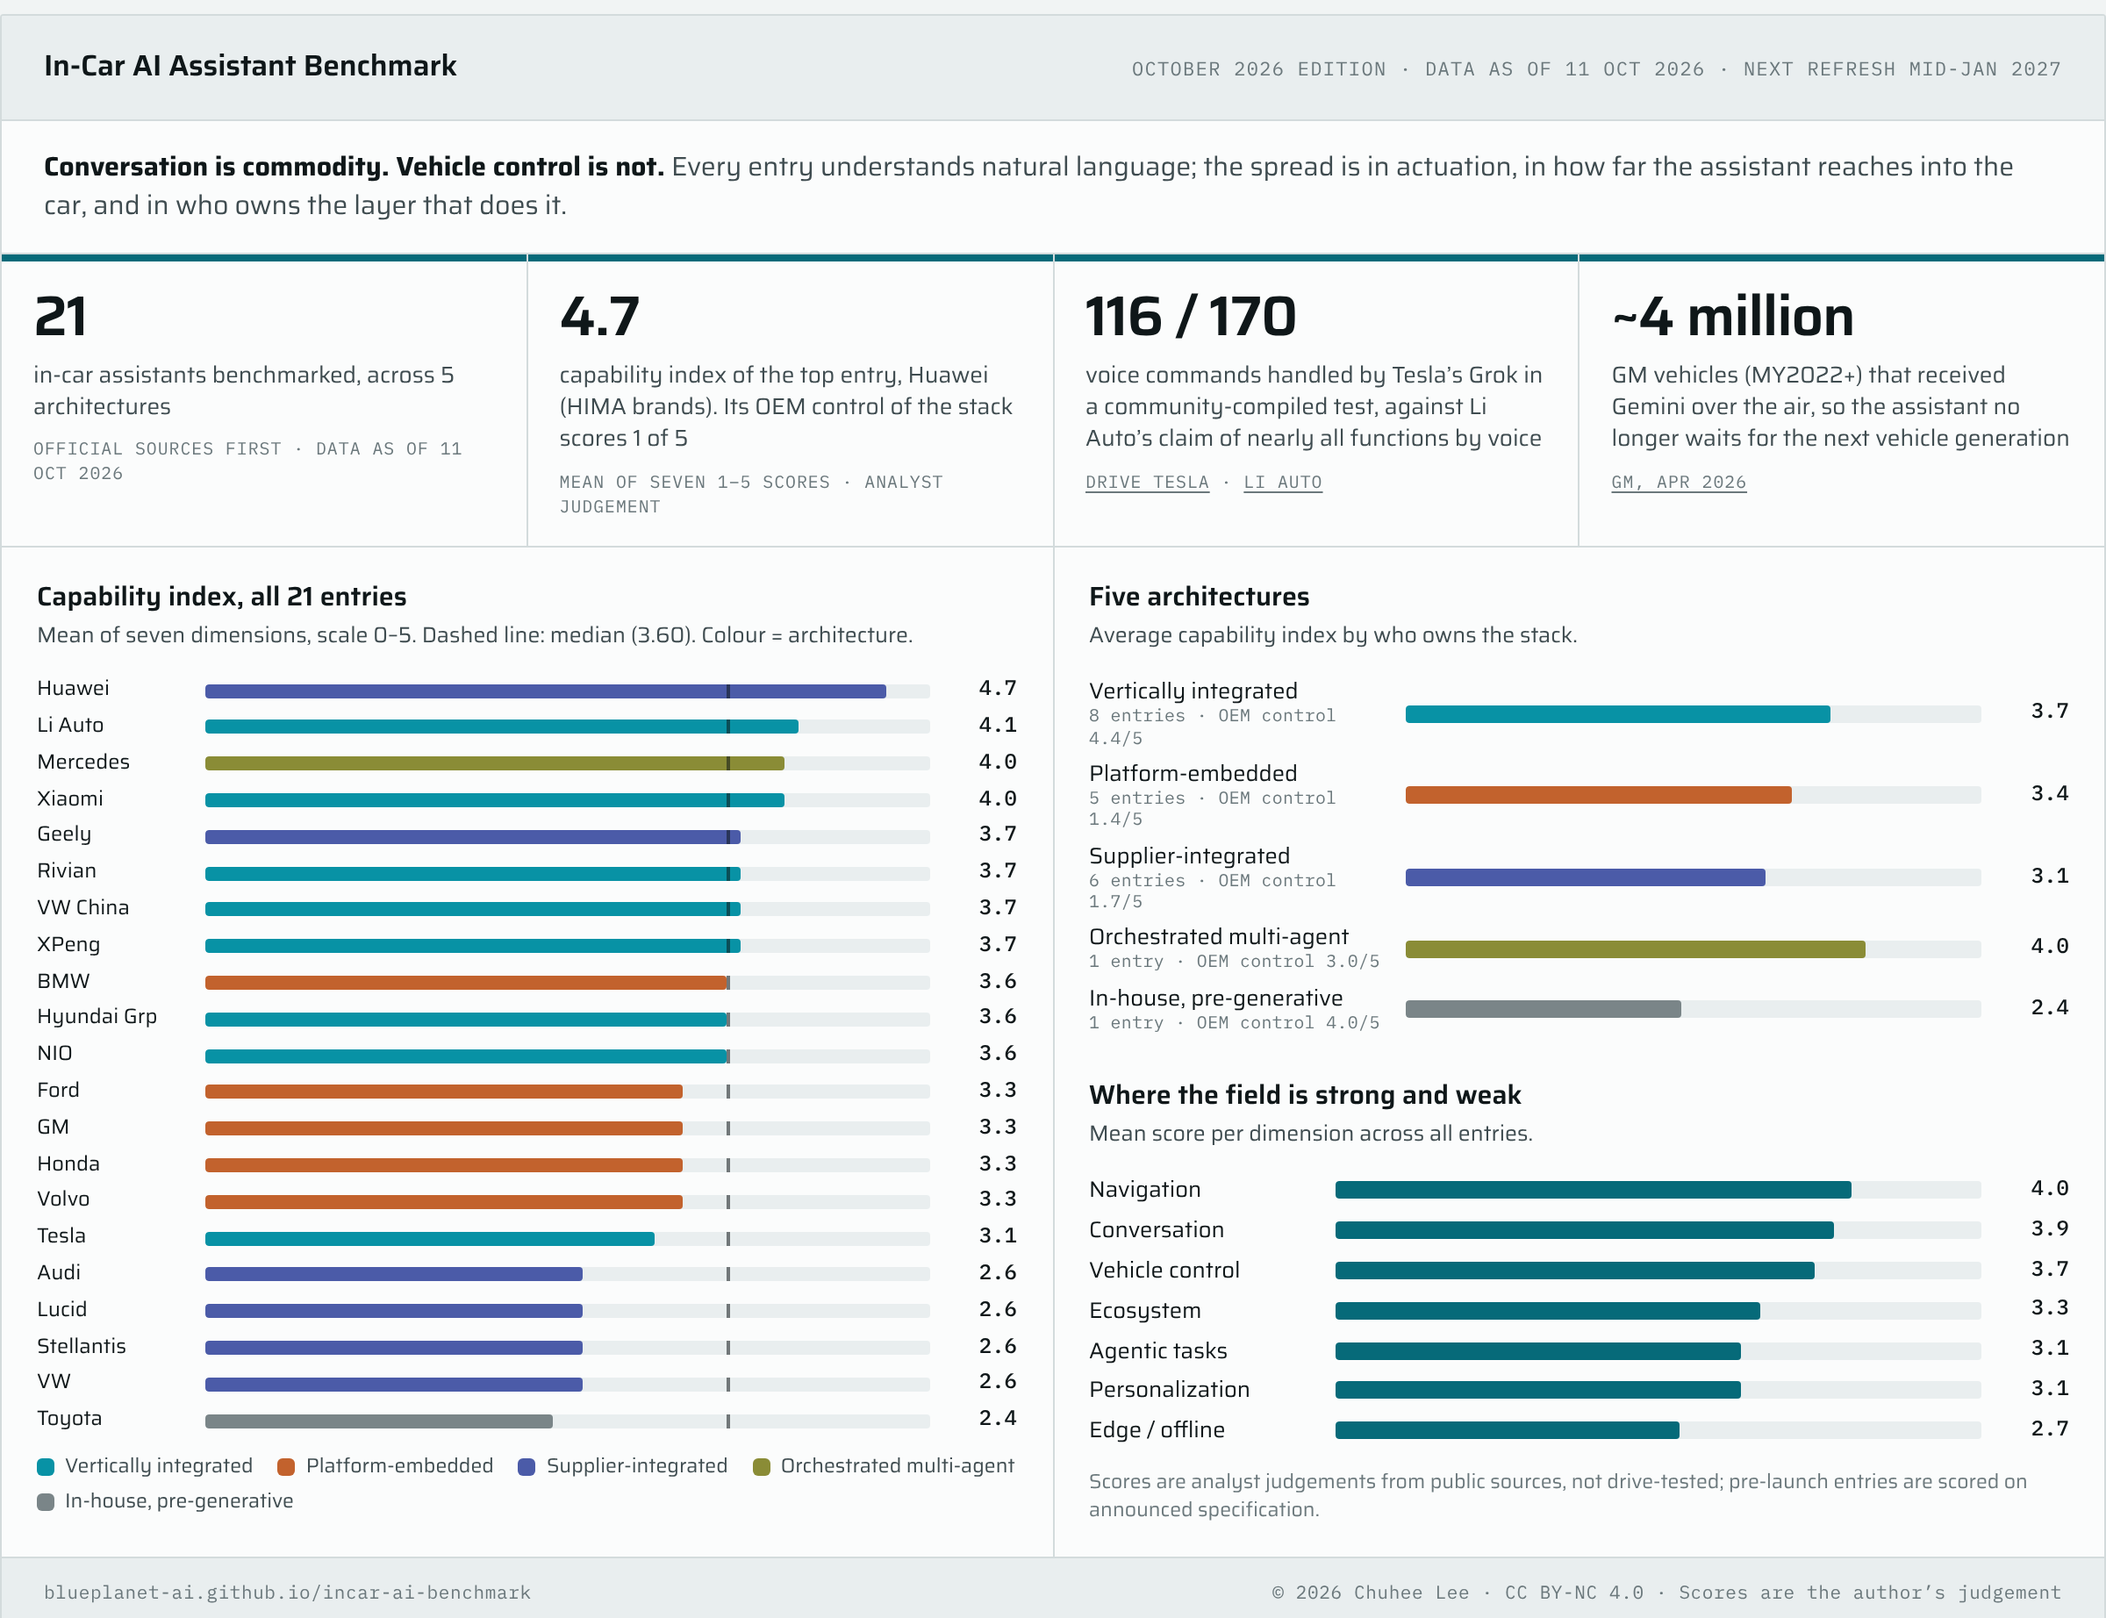
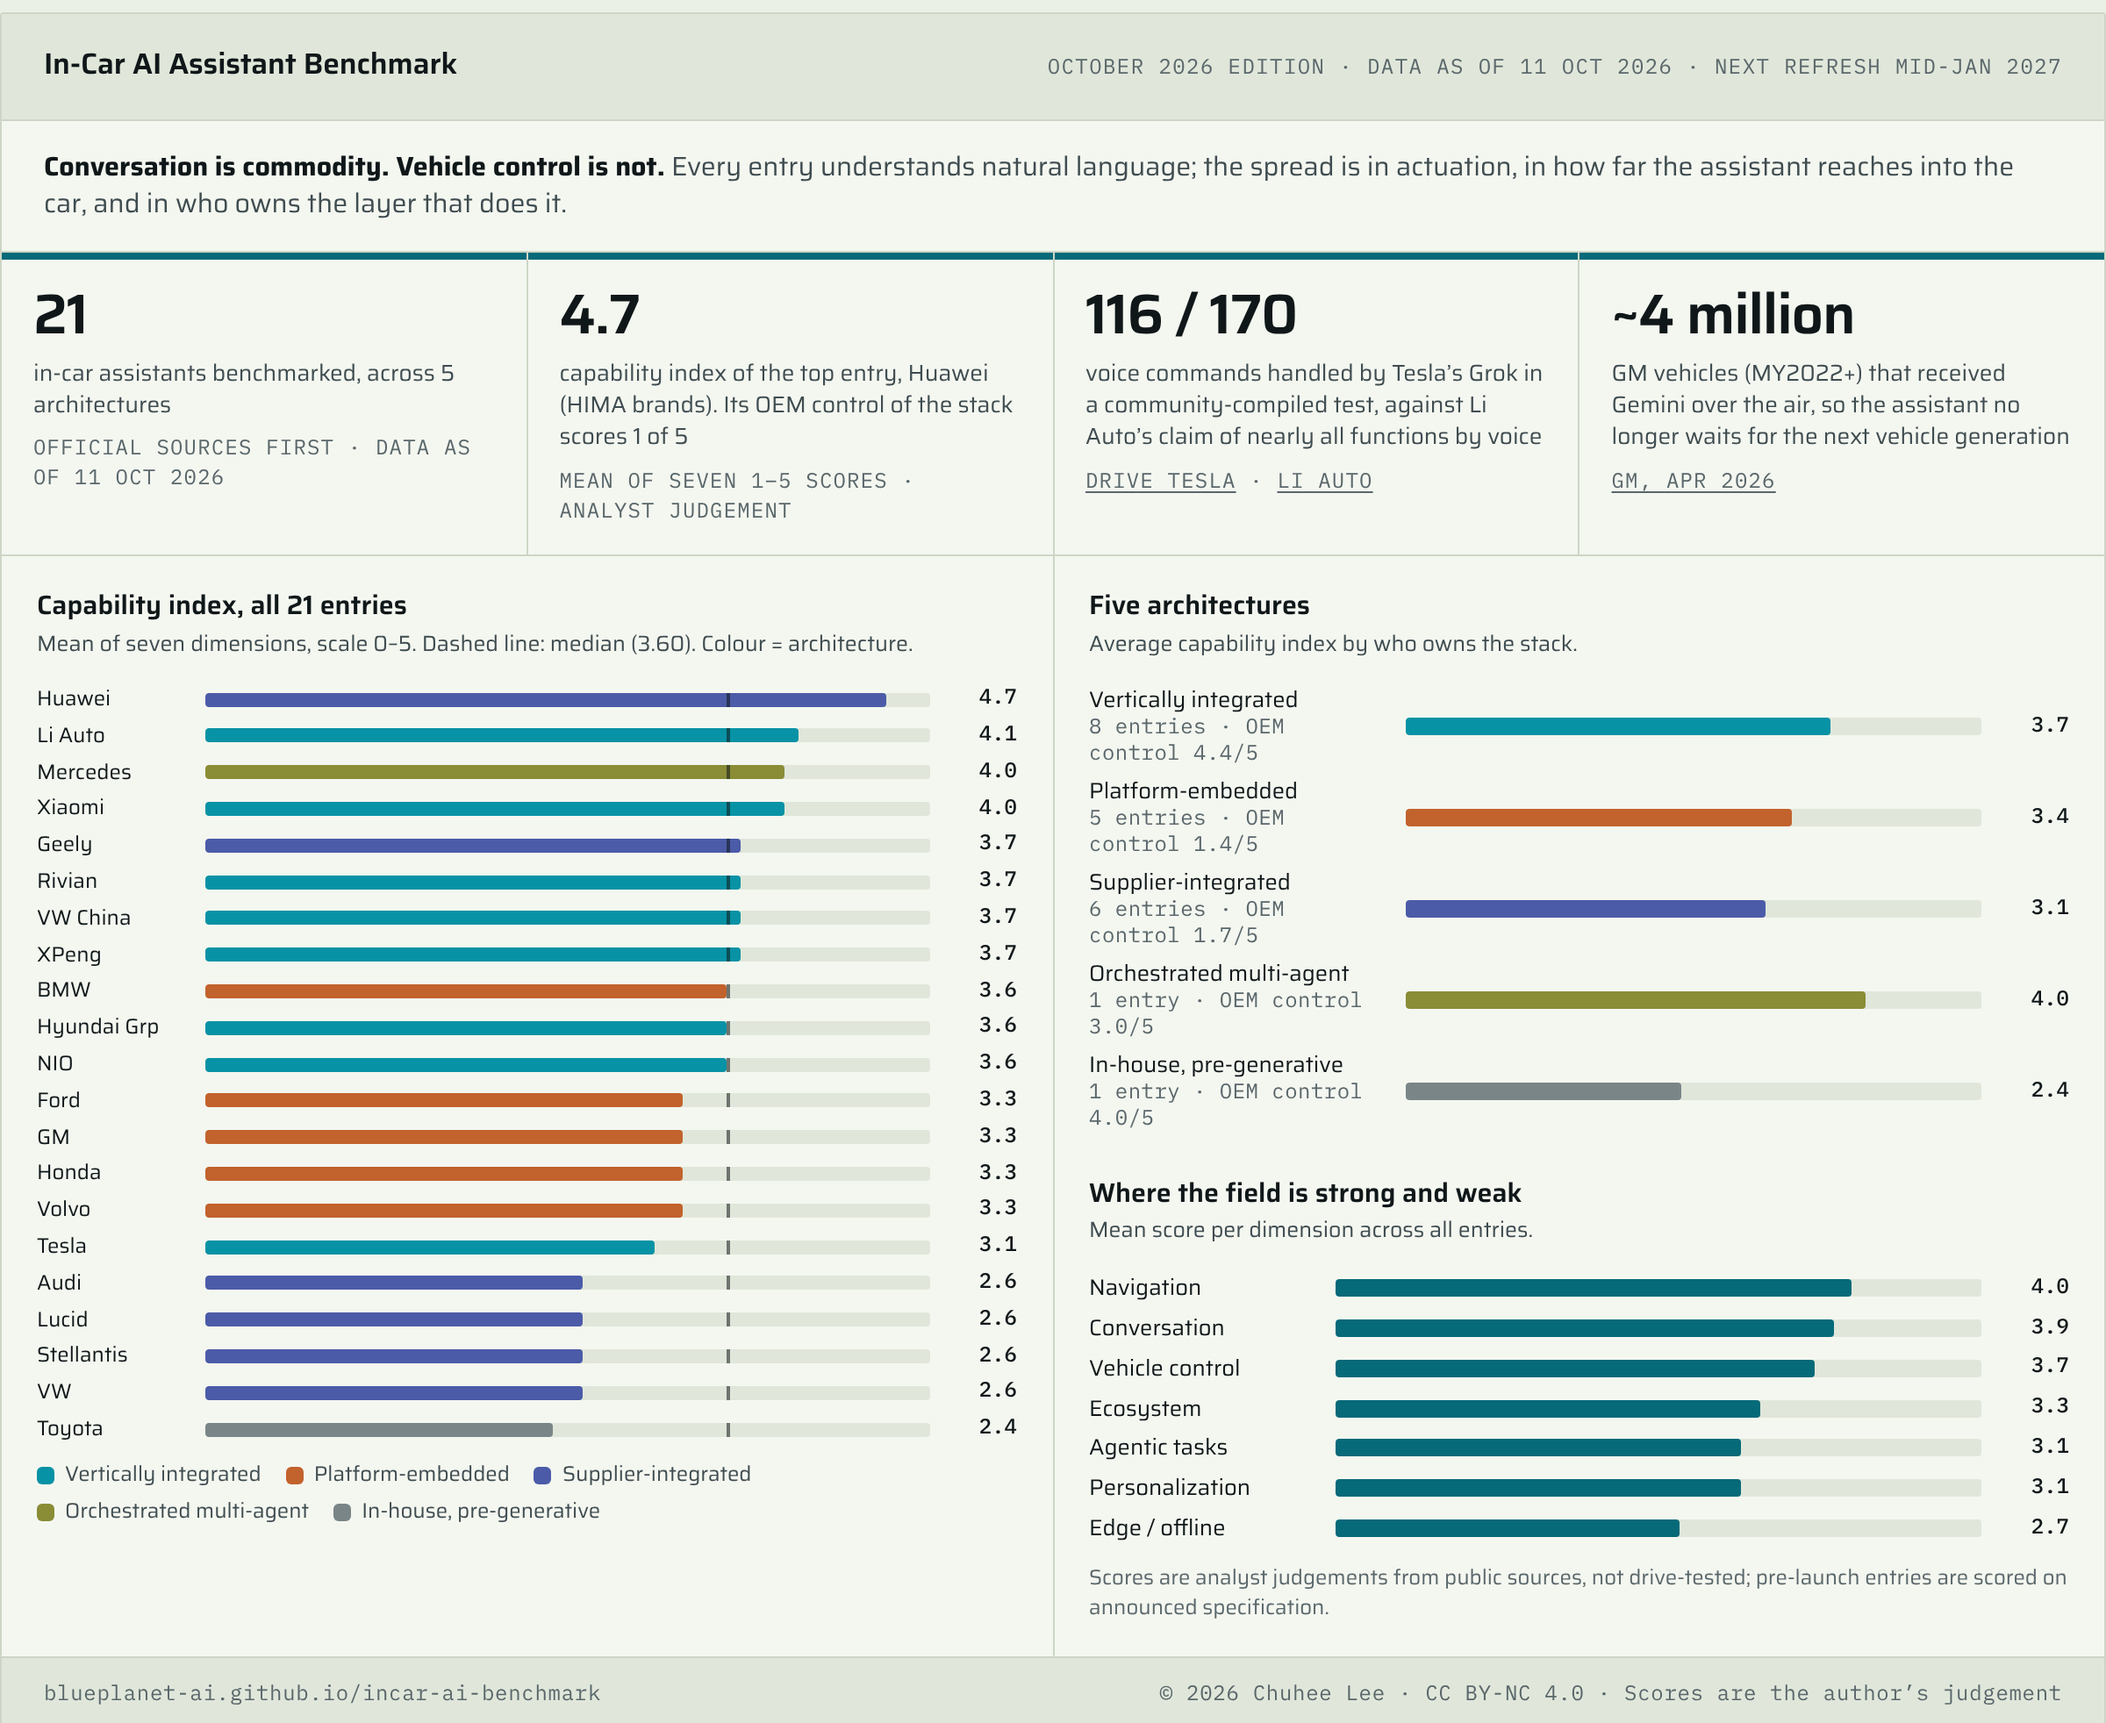
Re-export at-a-glance infographics on the Sage ground
Claude-Session: https://claude.ai/code/session_01EnmB7EVpCp7VZybX4QiYSA

diff --git a/CHANGELOG.md b/CHANGELOG.md
@@ -2,6 +2,9 @@
 
 ## Site-wide
 
+### 17 October 2026 — infographics re-exported on the Sage ground
+- The five "at a glance" PNG infographics were re-exported with the Sage paper ground and the 12 px type floor, so they match the pages. They are taller than before (roughly 50 to 190 px at 2x) because of the type-scale change. The social preview images are unchanged: they use the dark design, which did not change.
+
 ### 17 October 2026 — design system document
 - Added `DESIGN.md` at the repository root: tokens, type scale, accessibility rules, page furniture, map method and the pre-PR checklist. No site files changed.
 
